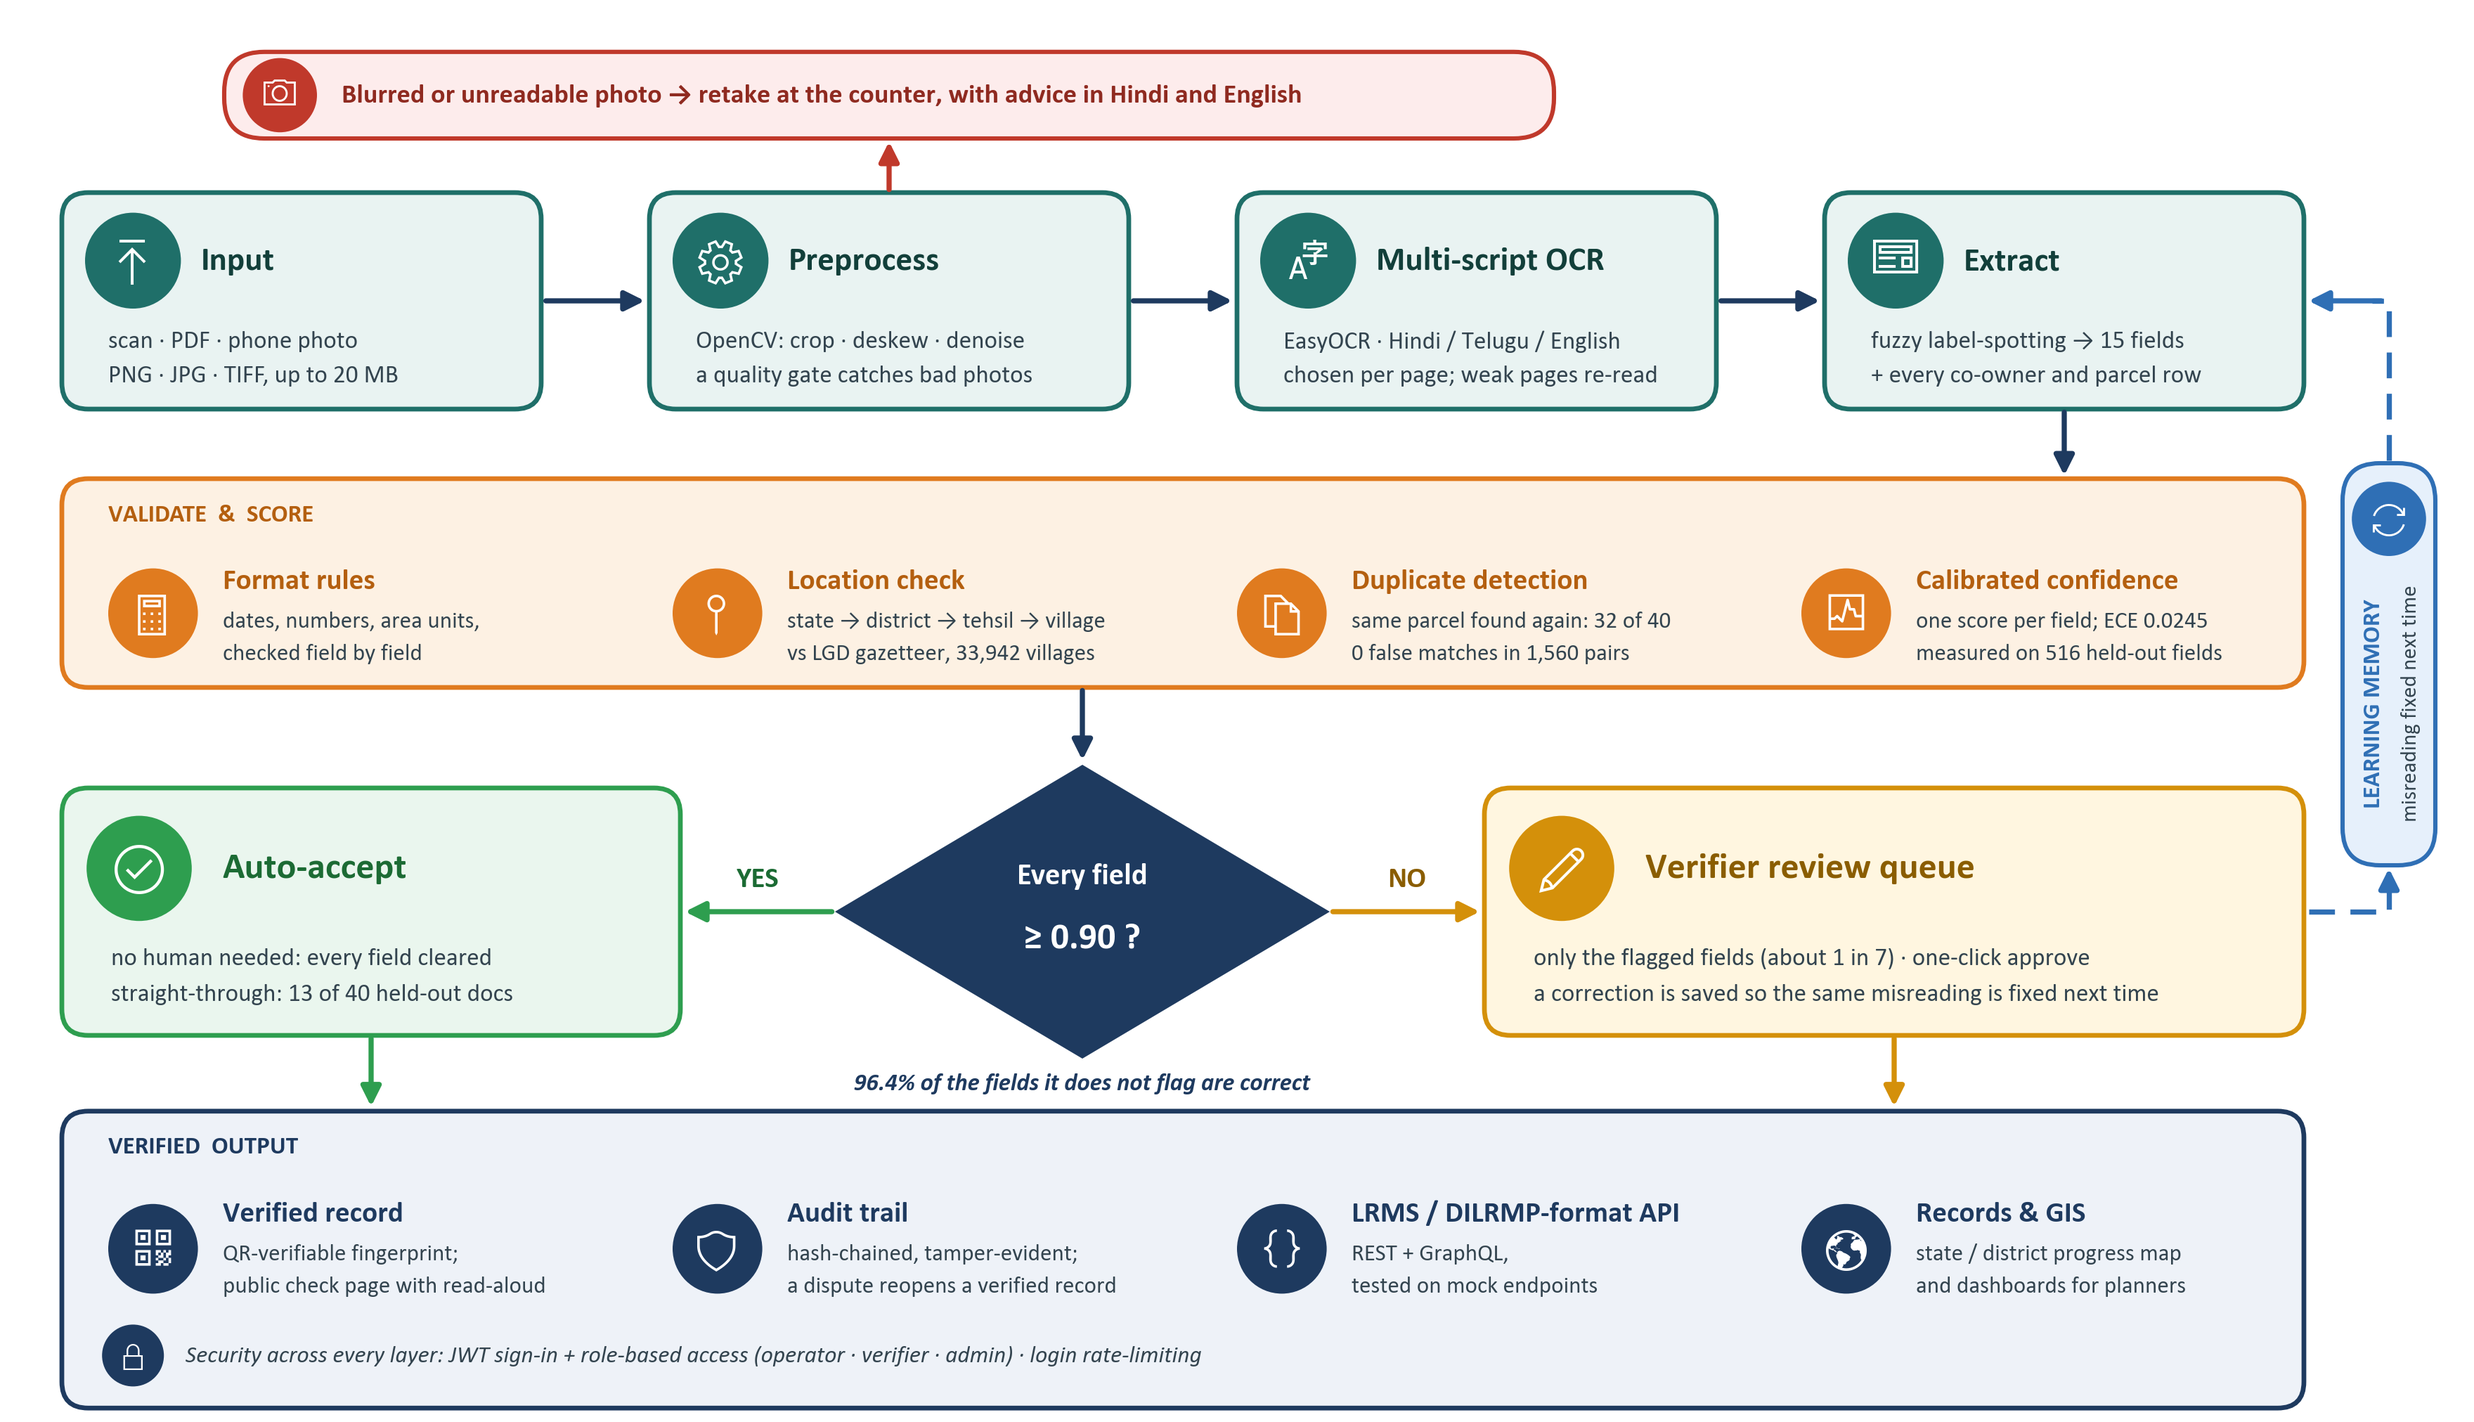
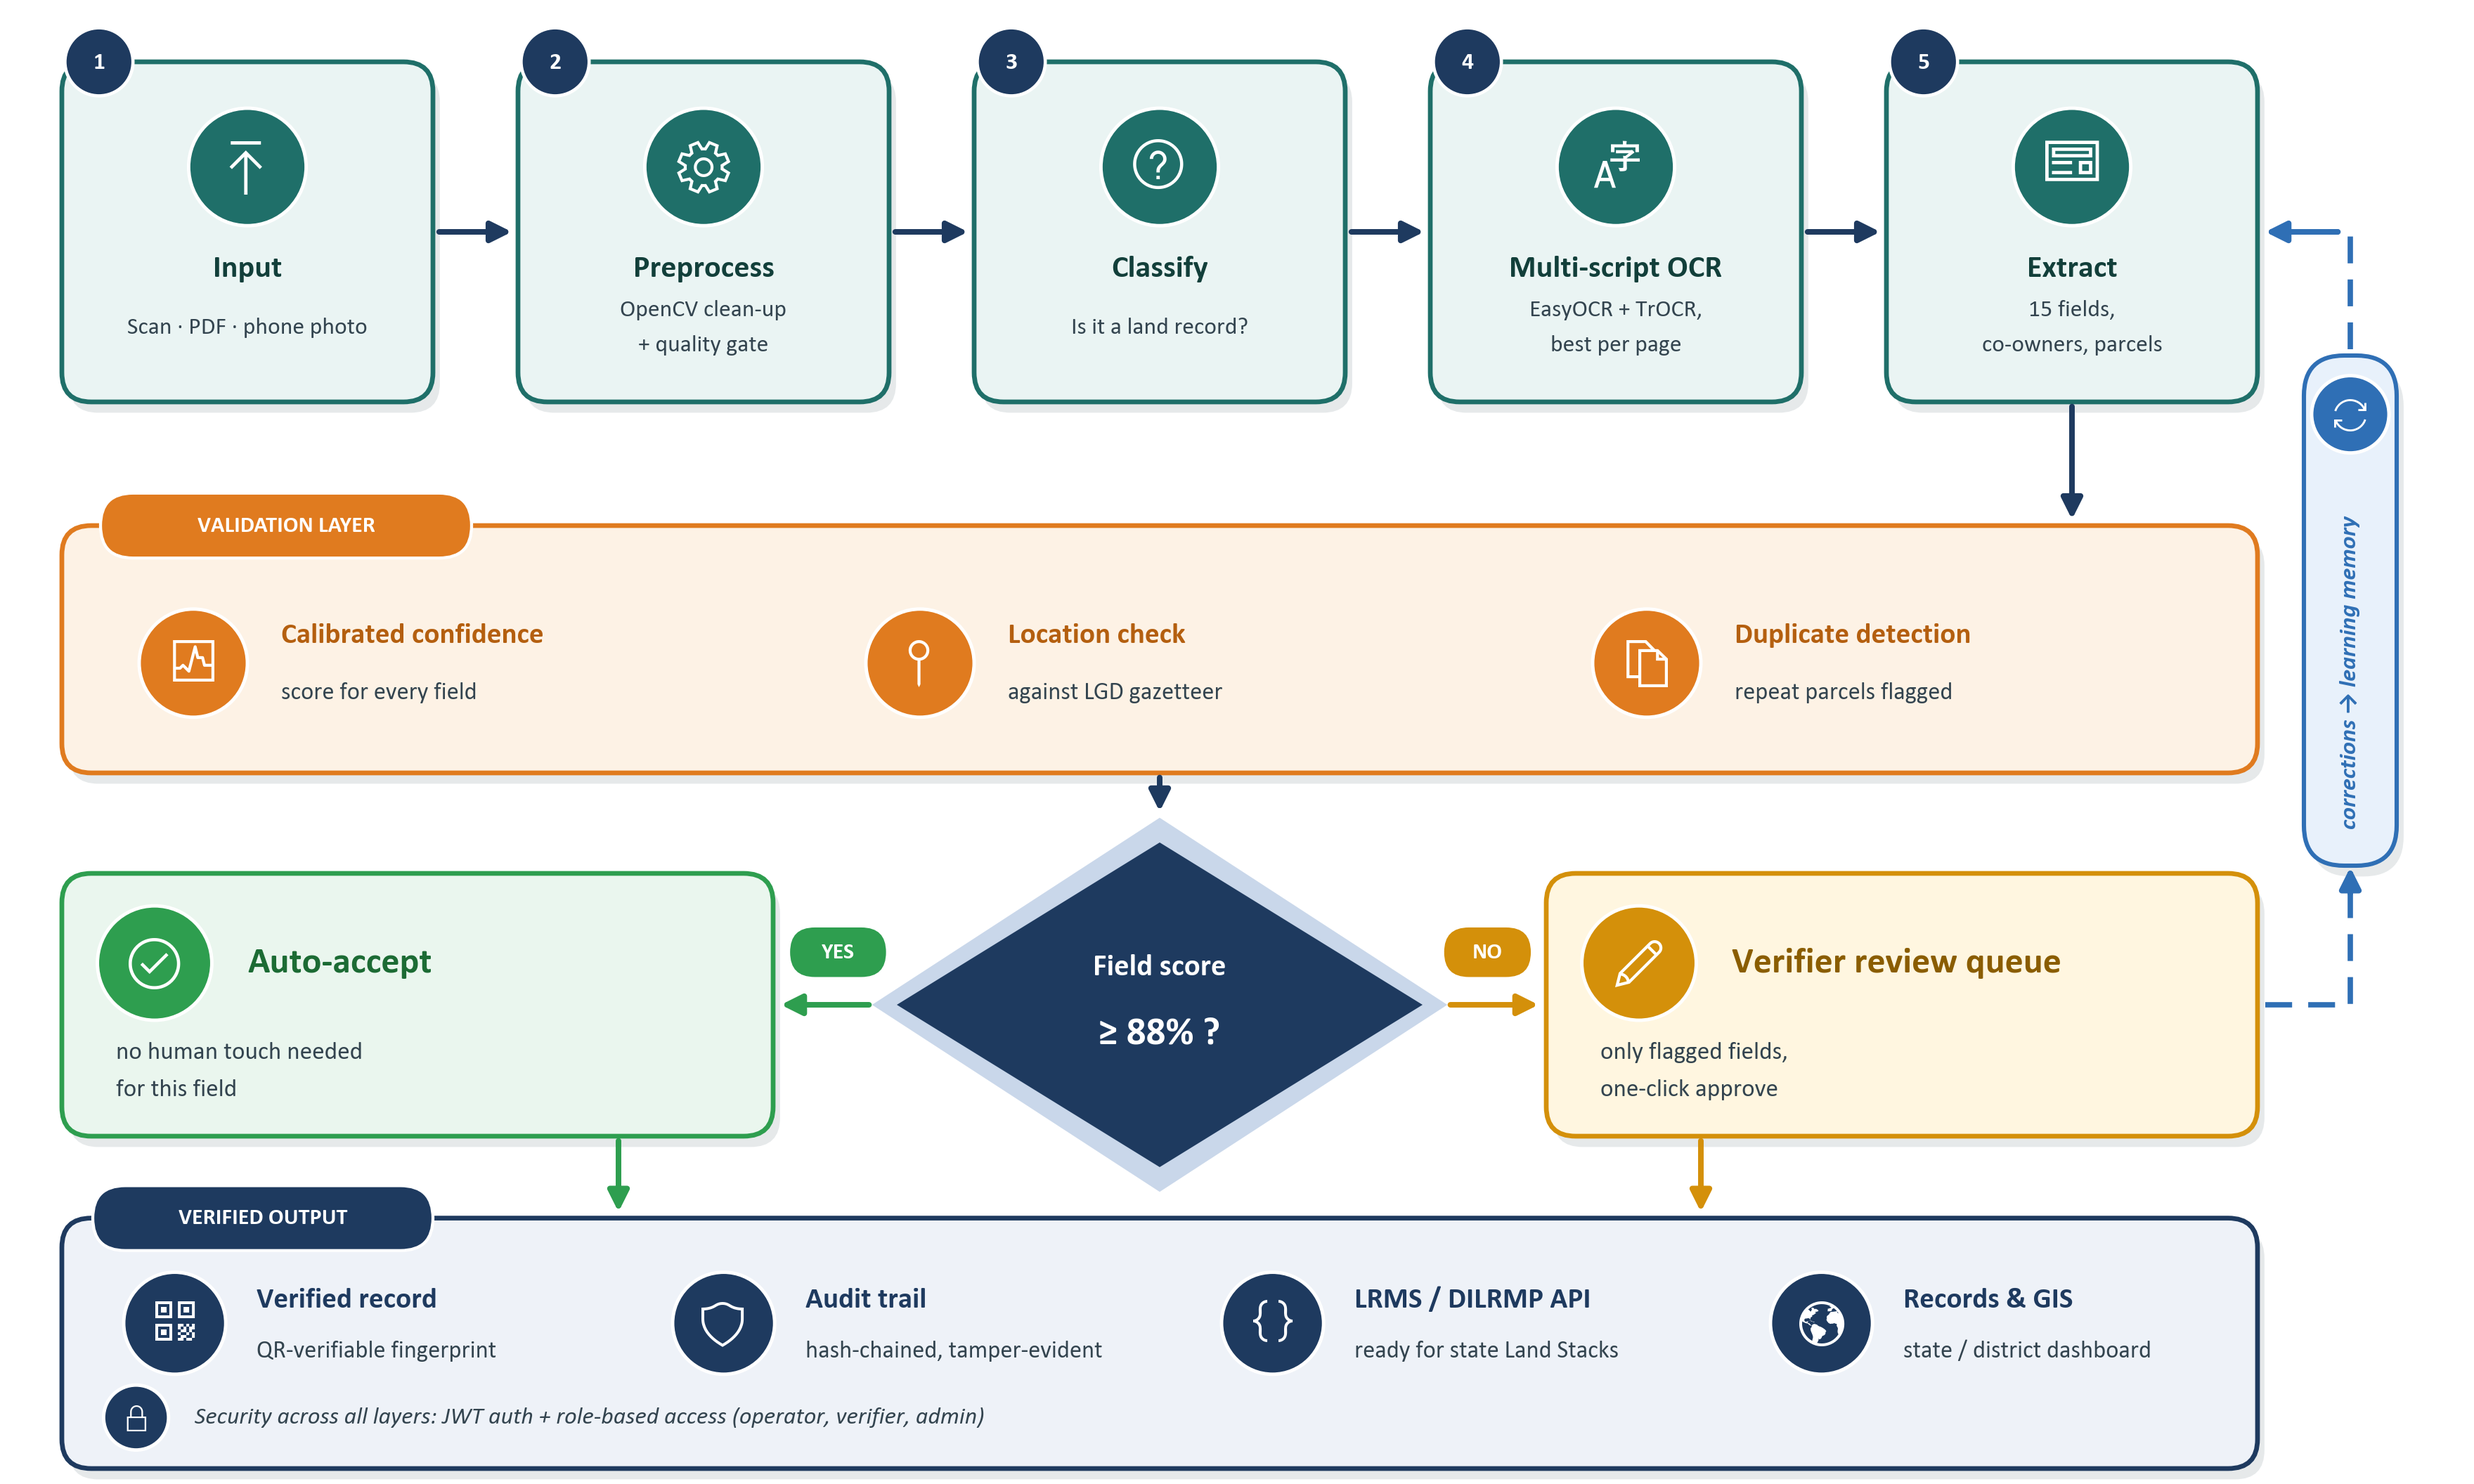
redraw the slide architecture from the team draft, with a next-round tagged variant

Changed region(s): [[0.0, 0.0, 1.0, 0.9965], [0.5, 0.5917, 0.5312, 0.6228]]

diff --git a/results/SUMMARY.md b/results/SUMMARY.md
@@ -13,13 +13,19 @@ copy of this folder floating around, use this one.
 
 ## Slide: "Architecture" → `charts/architecture_slide.png` (use this one on the slide)
 
-Slide-ready system flow in the deck's colours: Input → Preprocess → Multi-script OCR → Extract →
-Validate & Score → the 0.90 decision → Auto-accept / Verifier review → Verified output, with the
-retake branch for unreadable photos and the learning-memory loop back into Extract. Every label
-and number on it is checked against the code and `eval/results/`.
+The team's own target architecture, drawn slide-ready in the deck's colours: Input → Preprocess →
+Classify → Multi-script OCR (EasyOCR + TrOCR) → Extract → Validation layer → the 88% decision →
+Auto-accept / Verifier review queue → Verified output, with the corrections → learning-memory loop.
+
+**Know which parts are built today, in case a judge opens the repo:** Classify and TrOCR are
+*planned for the next round* — the code currently has EasyOCR only, and the land-document
+classifier was removed. The auto-accept threshold in the code is 0.90 (the slide says 88%).
+`charts/architecture_slide_next_round_tags.png` is the same diagram with those two cards outlined
+and tagged "NEXT ROUND" — use that one if you want the slide to be exact about what is live.
 
 `charts/00_architecture.png` is a second view of the same system, coloured by which *team track*
-owns each part (matches README's mermaid diagram) — use it only if you want to show ownership.
+owns each part (matches README's mermaid diagram, i.e. what is built now) — use it only if you
+want to show ownership.
 
 **Talking point**: the loop at the center is the point — an auto-accepted record and a verifier-approved one land in the same database indistinguishably, but every correction a verifier makes feeds back into the extraction step through the learning memory, so the system keeps improving without retraining.
 
